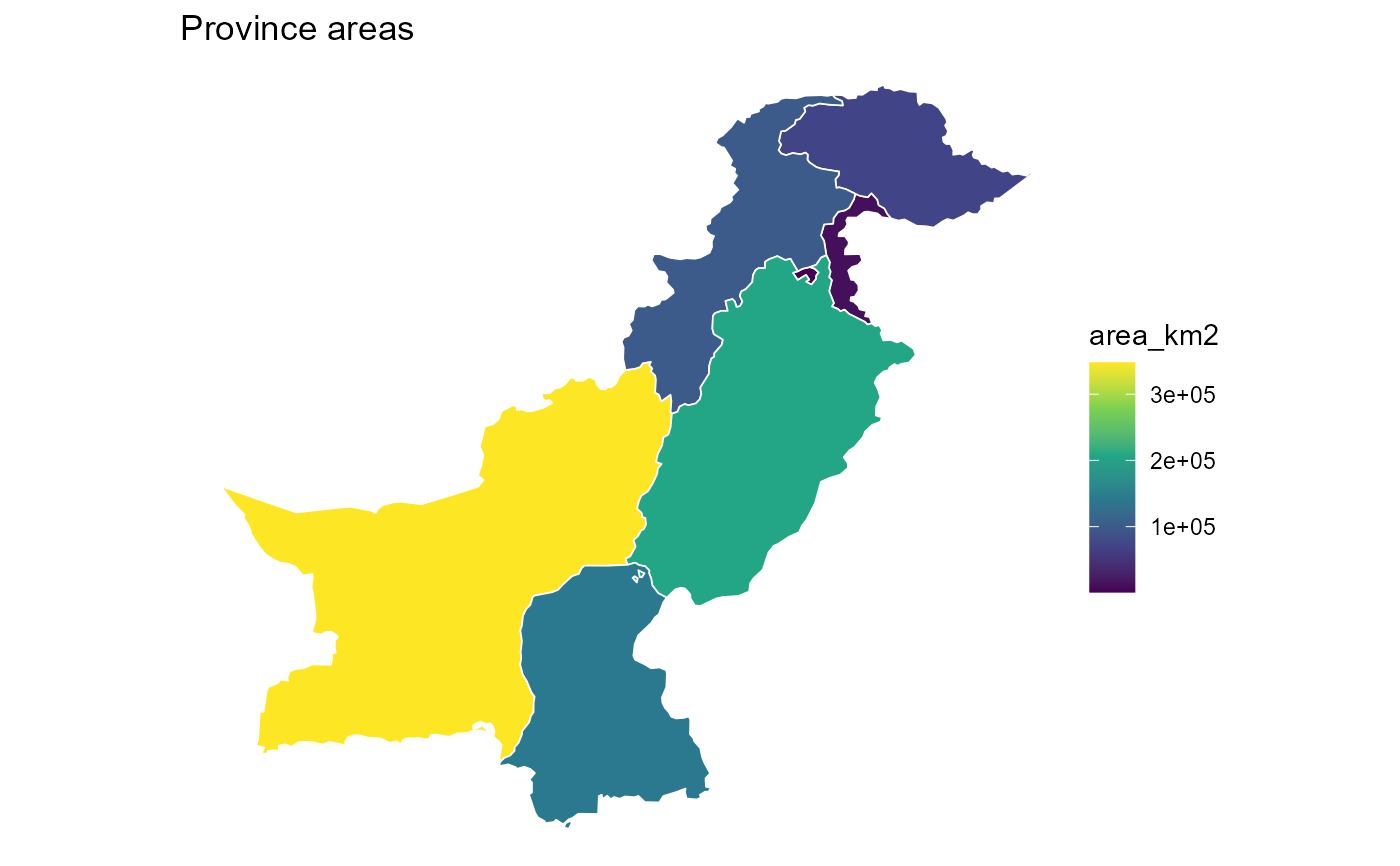
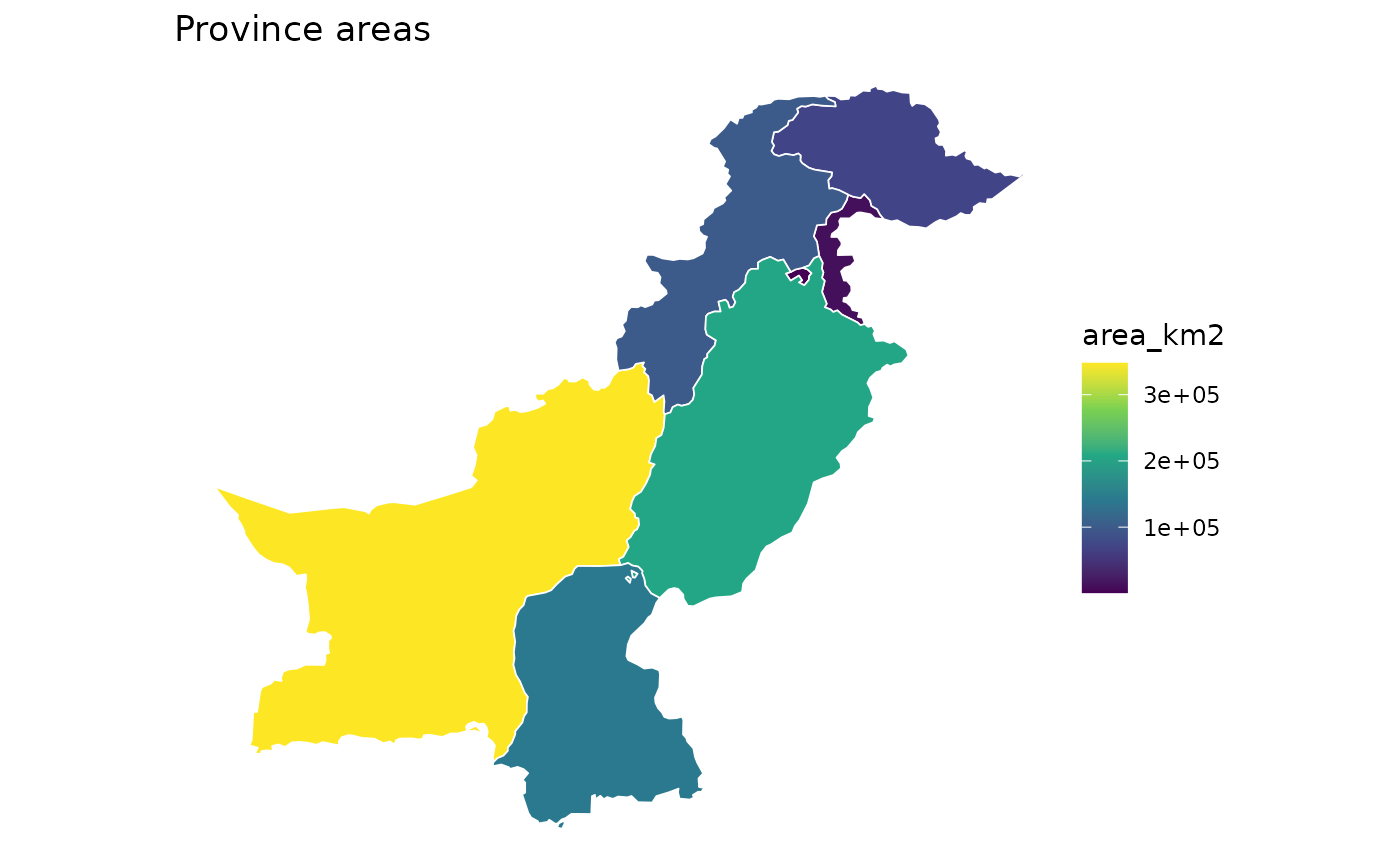
Deploying to gh-pages from @ abdullahumer1101/pkmapr@2f480a5875a52cbc2013997739f40875c2c731cc 🚀

diff --git a/reference/pk_crs_suggest.html b/reference/pk_crs_suggest.html
@@ -41,7 +41,7 @@ benefit from an equal-area projection."><meta name="google-site-verification" co
   <main id="main" class="col-md-9"><div class="page-header">
 
       <h1>Suggest an appropriate projected CRS for a Pakistan sf object</h1>
-      <small class="dont-index">Source: <a href="https://github.com/abdullahumer1101/pkmapr/blob/HEAD/R/crs_suggest.R" class="external-link"><code>R/crs_suggest.R</code></a></small>
+      <small class="dont-index">Source: <a href="https://github.com/abdullahumer1101/pkmapr/blob/v1.2.1/R/crs_suggest.R" class="external-link"><code>R/crs_suggest.R</code></a></small>
       <div class="d-none name"><code>pk_crs_suggest.Rd</code></div>
     </div>
 
@@ -86,26 +86,10 @@ inaccurate results as it measures in degrees rather than metres.</p>
 
     <div class="section level2">
     <h2 id="ref-examples">Examples<a class="anchor" aria-label="anchor" href="#ref-examples"></a></h2>
-    <div class="sourceCode"><pre class="sourceCode r"><code><span class="r-in"><span>  <span class="fu">pk_crs_suggest</span><span class="op">(</span><span class="fu"><a href="get_country.html">get_country</a></span><span class="op">(</span><span class="op">)</span><span class="op">)</span></span></span>
-<span class="r-out co"><span class="r-pr">#&gt;</span> $epsg</span>
-<span class="r-out co"><span class="r-pr">#&gt;</span> [1] 102025</span>
-<span class="r-out co"><span class="r-pr">#&gt;</span> </span>
-<span class="r-out co"><span class="r-pr">#&gt;</span> $name</span>
-<span class="r-out co"><span class="r-pr">#&gt;</span> [1] "Asia South Albers Equal Area Conic (ESRI:102025)"</span>
-<span class="r-out co"><span class="r-pr">#&gt;</span> </span>
-<span class="r-out co"><span class="r-pr">#&gt;</span> $rationale</span>
-<span class="r-out co"><span class="r-pr">#&gt;</span> [1] "Extent covers a large portion of Pakistan; Albers Equal Area Conic is recommended by OCHA for national-level Pakistan analyses and minimises area distortion across the full country."</span>
-<span class="r-out co"><span class="r-pr">#&gt;</span> </span>
+    <div class="sourceCode"><pre class="sourceCode r"><code><span class="r-in"><span><span class="kw">if</span> <span class="op">(</span><span class="cn">FALSE</span><span class="op">)</span> <span class="op">{</span> <span class="co"># interactive()</span></span></span>
+<span class="r-in"><span>  <span class="fu">pk_crs_suggest</span><span class="op">(</span><span class="fu"><a href="get_country.html">get_country</a></span><span class="op">(</span><span class="op">)</span><span class="op">)</span></span></span>
 <span class="r-in"><span>  <span class="fu">pk_crs_suggest</span><span class="op">(</span><span class="fu"><a href="get_districts.html">get_districts</a></span><span class="op">(</span>province <span class="op">=</span> <span class="st">"Balochistan"</span><span class="op">)</span><span class="op">)</span></span></span>
-<span class="r-out co"><span class="r-pr">#&gt;</span> $epsg</span>
-<span class="r-out co"><span class="r-pr">#&gt;</span> [1] 102025</span>
-<span class="r-out co"><span class="r-pr">#&gt;</span> </span>
-<span class="r-out co"><span class="r-pr">#&gt;</span> $name</span>
-<span class="r-out co"><span class="r-pr">#&gt;</span> [1] "Asia South Albers Equal Area Conic (ESRI:102025)"</span>
-<span class="r-out co"><span class="r-pr">#&gt;</span> </span>
-<span class="r-out co"><span class="r-pr">#&gt;</span> $rationale</span>
-<span class="r-out co"><span class="r-pr">#&gt;</span> [1] "Extent covers a large portion of Pakistan; Albers Equal Area Conic is recommended by OCHA for national-level Pakistan analyses and minimises area distortion across the full country."</span>
-<span class="r-out co"><span class="r-pr">#&gt;</span> </span>
+<span class="r-in"><span><span class="op">}</span></span></span>
 </code></pre></div>
     </div>
   </main><aside class="col-md-3"><nav id="toc" aria-label="Table of contents"><h2>On this page</h2>

diff --git a/reference/pk_version.html b/reference/pk_version.html
@@ -37,7 +37,7 @@ available on GitHub."><meta name="google-site-verification" content="g3XYDIHI4F1
   <main id="main" class="col-md-9"><div class="page-header">
 
       <h1>Check package version and update status</h1>
-      <small class="dont-index">Source: <a href="https://github.com/abdullahumer1101/pkmapr/blob/HEAD/R/metadata.R" class="external-link"><code>R/metadata.R</code></a></small>
+      <small class="dont-index">Source: <a href="https://github.com/abdullahumer1101/pkmapr/blob/v1.2.1/R/metadata.R" class="external-link"><code>R/metadata.R</code></a></small>
       <div class="d-none name"><code>pk_version.Rd</code></div>
     </div>
 
@@ -77,15 +77,14 @@ or NA if the check failed (e.g., no internet connection).</p></dd>
     <div class="sourceCode"><pre class="sourceCode r"><code><span class="r-in"><span><span class="co"># \donttest{</span></span></span>
 <span class="r-in"><span><span class="fu">pk_version</span><span class="op">(</span><span class="op">)</span></span></span>
 <span class="r-out co"><span class="r-pr">#&gt;</span> Installed version: 1.2.1 </span>
-<span class="r-out co"><span class="r-pr">#&gt;</span> Latest version:    1.2.0 </span>
-<span class="r-out co"><span class="r-pr">#&gt;</span> Update available! Run: remotes::install_github('abdullahumer1101/pkmapr')</span>
+<span class="r-out co"><span class="r-pr">#&gt;</span> Latest version:    1.2.1 </span>
+<span class="r-out co"><span class="r-pr">#&gt;</span> You have the latest version</span>
 <span class="r-in"><span></span></span>
 <span class="r-in"><span><span class="co"># Silent mode for programmatic use</span></span></span>
 <span class="r-in"><span><span class="va">vers</span> <span class="op">&lt;-</span> <span class="fu">pk_version</span><span class="op">(</span>quiet <span class="op">=</span> <span class="cn">TRUE</span><span class="op">)</span></span></span>
 <span class="r-in"><span><span class="kw">if</span> <span class="op">(</span><span class="op">!</span><span class="fu"><a href="https://rdrr.io/r/base/NA.html" class="external-link">is.na</a></span><span class="op">(</span><span class="va">vers</span><span class="op">$</span><span class="va">latest</span><span class="op">)</span> <span class="op">&amp;&amp;</span> <span class="va">vers</span><span class="op">$</span><span class="va">installed</span> <span class="op">!=</span> <span class="va">vers</span><span class="op">$</span><span class="va">latest</span><span class="op">)</span> <span class="op">{</span></span></span>
 <span class="r-in"><span>  <span class="fu"><a href="https://rdrr.io/r/base/message.html" class="external-link">message</a></span><span class="op">(</span><span class="st">"Update recommended!"</span><span class="op">)</span></span></span>
 <span class="r-in"><span><span class="op">}</span></span></span>
-<span class="r-msg co"><span class="r-pr">#&gt;</span> Update recommended!</span>
 <span class="r-in"><span><span class="co"># }</span></span></span>
 </code></pre></div>
     </div>

diff --git a/articles/intro-to-pkmapr.html b/articles/intro-to-pkmapr.html
@@ -60,7 +60,7 @@
       <h1>Introduction to pkmapr</h1>
             
       
-      <small class="dont-index">Source: <a href="https://github.com/abdullahumer1101/pkmapr/blob/HEAD/vignettes/intro-to-pkmapr.Rmd" class="external-link"><code>vignettes/intro-to-pkmapr.Rmd</code></a></small>
+      <small class="dont-index">Source: <a href="https://github.com/abdullahumer1101/pkmapr/blob/v1.2.1/vignettes/intro-to-pkmapr.Rmd" class="external-link"><code>vignettes/intro-to-pkmapr.Rmd</code></a></small>
       <div class="d-none name"><code>intro-to-pkmapr.Rmd</code></div>
     </div>
 
@@ -73,7 +73,7 @@
 </h2>
 <p>Install pkmapr from GitHub:</p>
 <div class="sourceCode" id="cb2"><pre class="downlit sourceCode r">
-<code class="sourceCode R"><span><span class="fu">remotes</span><span class="fu">::</span><span class="fu"><a href="https://remotes.r-lib.org/reference/install_github.html" class="external-link">install_github</a></span><span class="op">(</span><span class="st">"abdullahumer1101/pkmapr"</span><span class="op">)</span></span></code></pre></div>
+<code class="sourceCode R"><span><span class="fu">remotes</span><span class="fu">::</span><span class="fu">install_github</span><span class="op">(</span><span class="st">"abdullahumer1101/pkmapr"</span><span class="op">)</span></span></code></pre></div>
 <p>Or:</p>
 <div class="sourceCode" id="cb3"><pre class="downlit sourceCode r">
 <code class="sourceCode R"><span><span class="co"># install.packages("pkmapr", repos = "https://abdullahumer1101.r-universe.dev")</span></span></code></pre></div>

diff --git a/reference/pk_bbox.html b/reference/pk_bbox.html
@@ -39,7 +39,7 @@ spatial data."><meta name="google-site-verification" content="g3XYDIHI4F1mvCqYwY
   <main id="main" class="col-md-9"><div class="page-header">
 
       <h1>Get a bounding box for a named administrative unit</h1>
-      <small class="dont-index">Source: <a href="https://github.com/abdullahumer1101/pkmapr/blob/HEAD/R/measurement.R" class="external-link"><code>R/measurement.R</code></a></small>
+      <small class="dont-index">Source: <a href="https://github.com/abdullahumer1101/pkmapr/blob/v1.2.1/R/measurement.R" class="external-link"><code>R/measurement.R</code></a></small>
       <div class="d-none name"><code>pk_bbox.Rd</code></div>
     </div>
 
@@ -106,8 +106,6 @@ If that works, check that your data has the expected column names.</p>
 <span class="r-in"><span><span class="co"># Use with ggplot2</span></span></span>
 <span class="r-in"><span><span class="co"># \donttest{</span></span></span>
 <span class="r-in"><span>  <span class="kw"><a href="https://rdrr.io/r/base/library.html" class="external-link">library</a></span><span class="op">(</span><span class="va"><a href="https://ggplot2.tidyverse.org" class="external-link">ggplot2</a></span><span class="op">)</span></span></span>
-<span class="r-msg co"><span class="r-pr">#&gt;</span> Want to understand how all the pieces fit together? Read R for Data</span>
-<span class="r-msg co"><span class="r-pr">#&gt;</span> Science: https://r4ds.hadley.nz/</span>
 <span class="r-in"><span>  <span class="va">districts</span> <span class="op">&lt;-</span> <span class="fu"><a href="get_districts.html">get_districts</a></span><span class="op">(</span><span class="op">)</span></span></span>
 <span class="r-in"><span>  <span class="va">bb_punjab</span> <span class="op">&lt;-</span> <span class="fu">pk_bbox</span><span class="op">(</span><span class="st">"Punjab"</span>, level <span class="op">=</span> <span class="st">"province"</span><span class="op">)</span></span></span>
 <span class="r-in"><span>  <span class="fu"><a href="https://ggplot2.tidyverse.org/reference/ggplot.html" class="external-link">ggplot</a></span><span class="op">(</span><span class="op">)</span> <span class="op">+</span></span></span>

diff --git a/reference/pk_neighbors.html b/reference/pk_neighbors.html
@@ -39,7 +39,7 @@ complexities including non-contiguous units and disputed boundaries."><meta name
   <main id="main" class="col-md-9"><div class="page-header">
 
       <h1>Construct a spatial neighbours list for Pakistan administrative units</h1>
-      <small class="dont-index">Source: <a href="https://github.com/abdullahumer1101/pkmapr/blob/HEAD/R/neighbors.R" class="external-link"><code>R/neighbors.R</code></a></small>
+      <small class="dont-index">Source: <a href="https://github.com/abdullahumer1101/pkmapr/blob/v1.2.1/R/neighbors.R" class="external-link"><code>R/neighbors.R</code></a></small>
       <div class="d-none name"><code>pk_neighbors.Rd</code></div>
     </div>
 
@@ -104,7 +104,7 @@ relationships. Each element is an integer vector of neighbour indices.</p></dd>
 <dt>listw</dt>
 <dd><p>A row-standardised spdep listw object (class "listw"),
 ready for <code><a href="https://r-spatial.github.io/spdep/reference/moran.test.html" class="external-link">spdep::moran.test()</a></code>, <code>spdep::localMoran()</code>,
-<code><a href="https://r-spatial.github.io/spatialreg/reference/ML_models.html" class="external-link">spatialreg::lagsarlm()</a></code>, and related spatial analysis functions.
+<code>spatialreg::lagsarlm()</code>, and related spatial analysis functions.
 The weights are row-standardized (style = "W") with zero.policy = TRUE.</p></dd>
 
 <dt>boundary_note</dt>

diff --git a/CONTRIBUTING.html b/CONTRIBUTING.html
@@ -35,7 +35,7 @@
   <main id="main" class="col-md-9"><div class="page-header">
 
       <h1>NA</h1>
-      <small class="dont-index">Source: <a href="https://github.com/abdullahumer1101/pkmapr/blob/HEAD/CONTRIBUTING.md" class="external-link"><code>CONTRIBUTING.md</code></a></small>
+      <small class="dont-index">Source: <a href="https://github.com/abdullahumer1101/pkmapr/blob/v1.2.1/CONTRIBUTING.md" class="external-link"><code>CONTRIBUTING.md</code></a></small>
     </div>
 
 <div class="section level2">

diff --git a/articles/epidemiology-pkmapr.html b/articles/epidemiology-pkmapr.html
@@ -62,7 +62,7 @@
       <h1>Epidemiology with pkmapr</h1>
             
       
-      <small class="dont-index">Source: <a href="https://github.com/abdullahumer1101/pkmapr/blob/HEAD/vignettes/epidemiology-pkmapr.Rmd" class="external-link"><code>vignettes/epidemiology-pkmapr.Rmd</code></a></small>
+      <small class="dont-index">Source: <a href="https://github.com/abdullahumer1101/pkmapr/blob/v1.2.1/vignettes/epidemiology-pkmapr.Rmd" class="external-link"><code>vignettes/epidemiology-pkmapr.Rmd</code></a></small>
       <div class="d-none name"><code>epidemiology-pkmapr.Rmd</code></div>
     </div>
 

diff --git a/articles/spatial-analysis-pkmapr.html b/articles/spatial-analysis-pkmapr.html
@@ -60,7 +60,7 @@
       <h1>Spatial Analysis with pkmapr</h1>
             
       
-      <small class="dont-index">Source: <a href="https://github.com/abdullahumer1101/pkmapr/blob/HEAD/vignettes/spatial-analysis-pkmapr.Rmd" class="external-link"><code>vignettes/spatial-analysis-pkmapr.Rmd</code></a></small>
+      <small class="dont-index">Source: <a href="https://github.com/abdullahumer1101/pkmapr/blob/v1.2.1/vignettes/spatial-analysis-pkmapr.Rmd" class="external-link"><code>vignettes/spatial-analysis-pkmapr.Rmd</code></a></small>
       <div class="d-none name"><code>spatial-analysis-pkmapr.Rmd</code></div>
     </div>
 

diff --git a/authors.html b/authors.html
@@ -48,7 +48,7 @@
 
     <div class="section level2">
       <h2 id="citation">Citation</h2>
-      <p><small class="dont-index">Source: <a href="https://github.com/abdullahumer1101/pkmapr/blob/HEAD/DESCRIPTION" class="external-link"><code>DESCRIPTION</code></a></small></p>
+      <p><small class="dont-index">Source: <a href="https://github.com/abdullahumer1101/pkmapr/blob/v1.2.1/DESCRIPTION" class="external-link"><code>DESCRIPTION</code></a></small></p>
 
       <p>Abdullah Umer (2026).
 <em>pkmapr: Pakistan Spatial Data Toolkit</em>.

diff --git a/index.html b/index.html
@@ -66,7 +66,7 @@
 </h2>
 <div class="sourceCode" id="cb1"><pre class="downlit sourceCode r">
 <code class="sourceCode R"><span><span class="co"># GitHub</span></span>
-<span><span class="fu">remotes</span><span class="fu">::</span><span class="fu"><a href="https://remotes.r-lib.org/reference/install_github.html" class="external-link">install_github</a></span><span class="op">(</span><span class="st">"abdullahumer1101/pkmapr"</span><span class="op">)</span></span>
+<span><span class="fu">remotes</span><span class="fu">::</span><span class="fu">install_github</span><span class="op">(</span><span class="st">"abdullahumer1101/pkmapr"</span><span class="op">)</span></span>
 <span></span>
 <span><span class="co"># R-Universe</span></span>
 <span><span class="fu"><a href="https://rdrr.io/r/utils/install.packages.html" class="external-link">install.packages</a></span><span class="op">(</span><span class="st">"pkmapr"</span>, repos <span class="op">=</span> <span class="st">"https://abdullahumer1101.r-universe.dev"</span><span class="op">)</span></span></code></pre></div>

diff --git a/news/index.html b/news/index.html
@@ -35,7 +35,7 @@
   <main id="main" class="col-md-9"><div class="page-header">
 
       <h1>Changelog</h1>
-      <small>Source: <a href="https://github.com/abdullahumer1101/pkmapr/blob/HEAD/NEWS.md" class="external-link"><code>NEWS.md</code></a></small>
+      <small>Source: <a href="https://github.com/abdullahumer1101/pkmapr/blob/v1.2.1/NEWS.md" class="external-link"><code>NEWS.md</code></a></small>
     </div>
 
     <div class="section level2">

diff --git a/reference/get_country.html b/reference/get_country.html
@@ -35,7 +35,7 @@
   <main id="main" class="col-md-9"><div class="page-header">
 
       <h1>Get national boundary for Pakistan.</h1>
-      <small class="dont-index">Source: <a href="https://github.com/abdullahumer1101/pkmapr/blob/HEAD/R/geometry.R" class="external-link"><code>R/geometry.R</code></a></small>
+      <small class="dont-index">Source: <a href="https://github.com/abdullahumer1101/pkmapr/blob/v1.2.1/R/geometry.R" class="external-link"><code>R/geometry.R</code></a></small>
       <div class="d-none name"><code>get_country.Rd</code></div>
     </div>
 